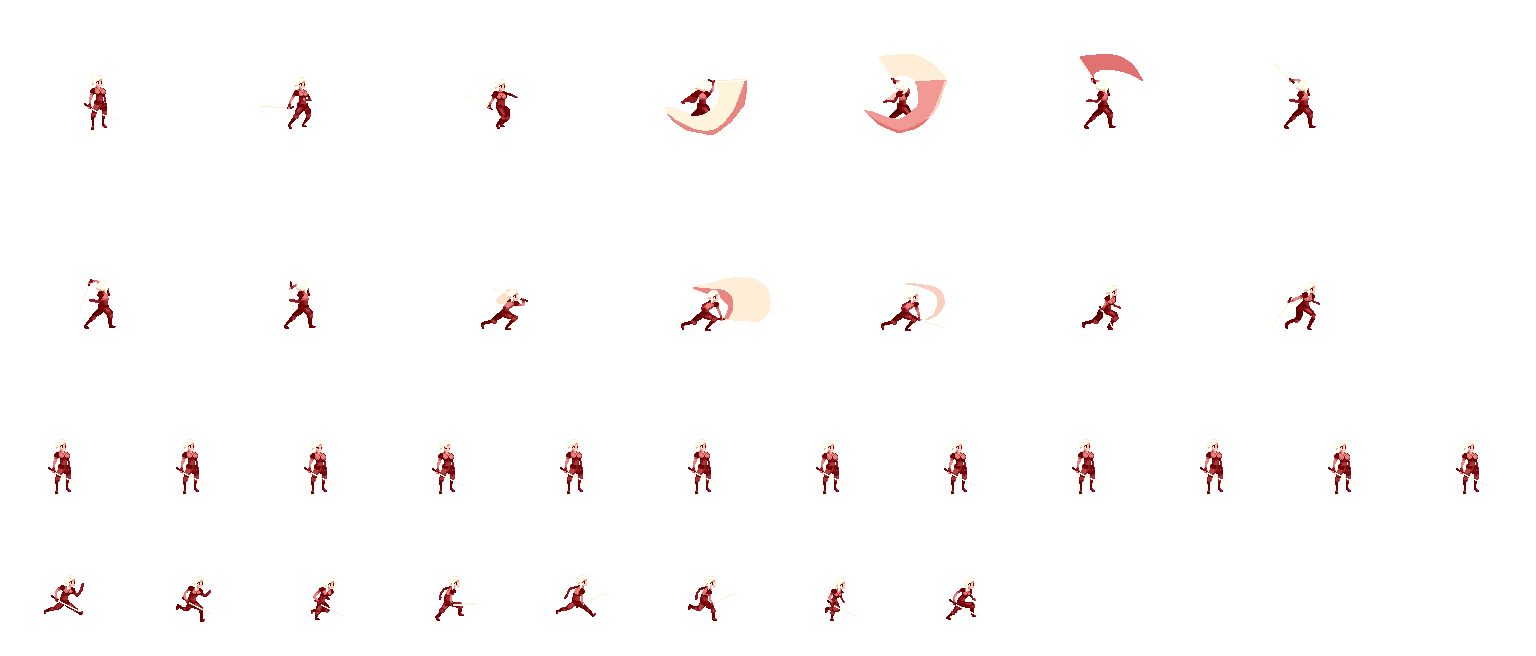
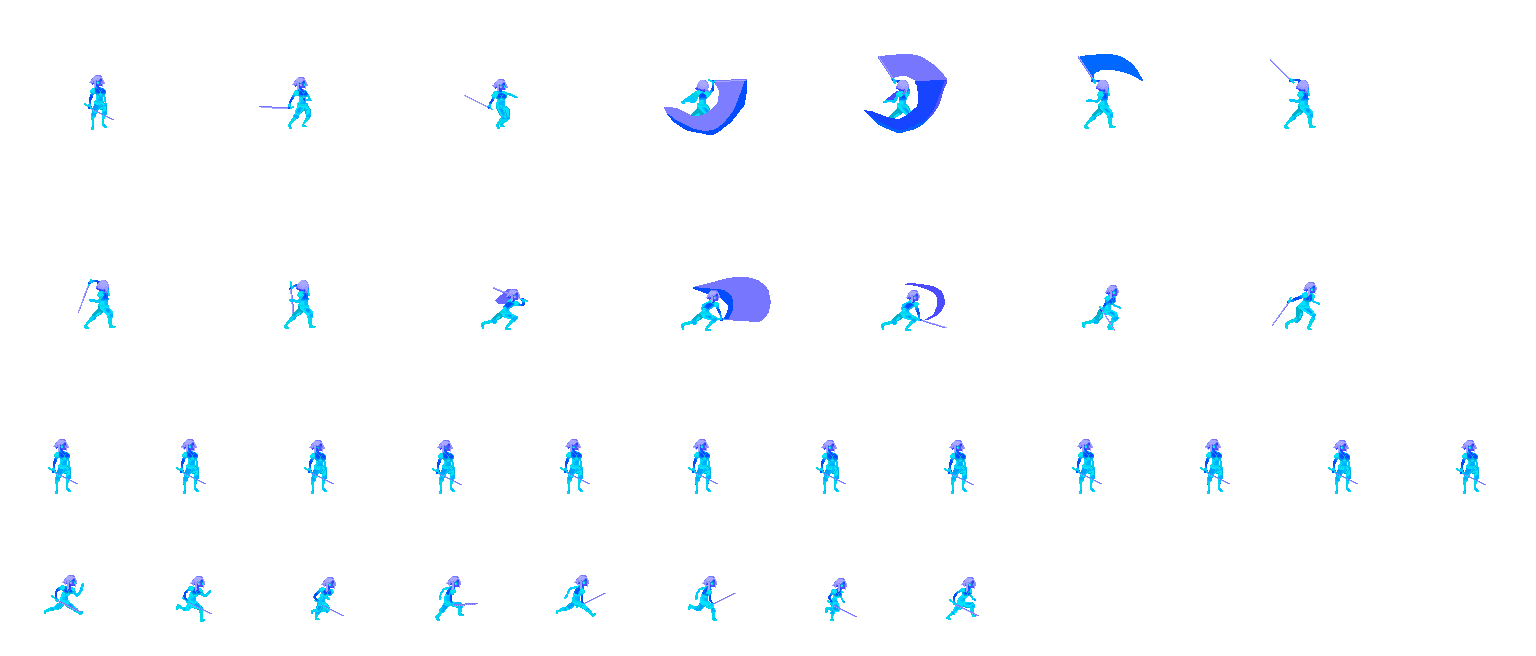
Opp update

diff --git a/src/component/behavior_tree.py b/src/component/behavior_tree.py
@@ -27,7 +27,7 @@ class BehaviorTree:
         self.root.tag_condition()
 
     def update(self):
-        print('\n========================================== NEW TICK =======================================================')
+        # print('\n========================================== NEW TICK =======================================================')
         self.root.update()
         if self.root.value == BehaviorTree.SUCCESS:
             self.root.reset()
@@ -49,7 +49,7 @@ class Node:
     def show_result(f):
         def inner(self):
             result = f(self)
-            print(f'[{self.__class__.__name__:10s}] {self.name:40s} ==> ({result})')
+            # print(f'[{self.__class__.__name__:10s}] {self.name:40s} ==> ({result})')
             return result
 
         return inner
@@ -84,7 +84,7 @@ class Selector(Node):
     @Node.show_result
     def update(self):
         for i, child in enumerate(self.children):
-            print(i, child.value, child.has_condition)
+            # print(i, child.value, child.has_condition)
             if (child.value in (BehaviorTree.UNDEF, BehaviorTree.RUNNING)) or child.has_condition:
                 self.value = child.update()
                 if self.value in (BehaviorTree.RUNNING, BehaviorTree.SUCCESS):

diff --git a/src/object/opponent.py b/src/object/opponent.py
@@ -29,7 +29,7 @@ class Opponent:
         # animation
         self.cur_ani = 0
         self.ani_reset = False
-        self.ani = Ani(self, self.pos, "Character.png", [8, 12, 7, 7], [128, 128, 200, 200], [130, 120, 203, 203]
+        self.ani = Ani(self, self.pos, "Opp.png", [8, 12, 7, 7], [128, 128, 200, 200], [130, 120, 203, 203]
                        , 0.15, Vec2(3, 3), True)
         self.component["ANI"] = self.ani
 
